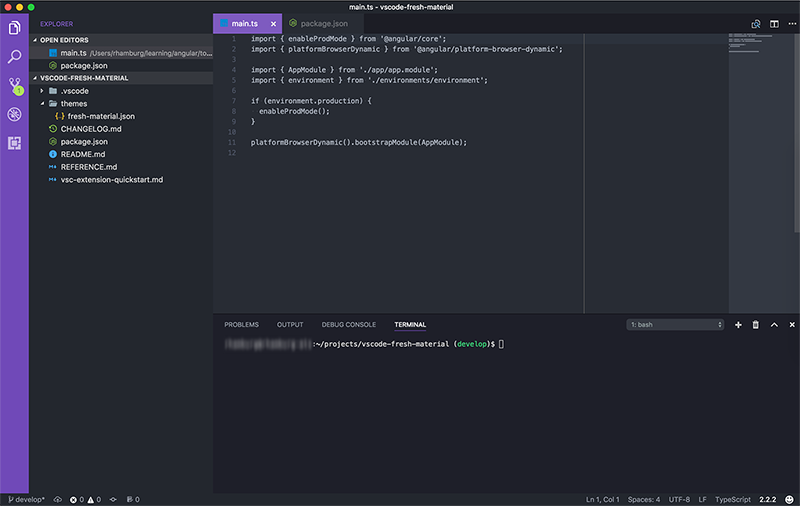
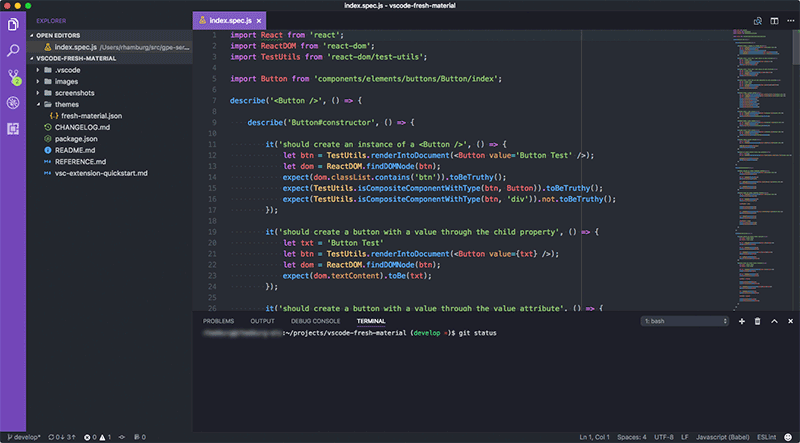
Bump major version

diff --git a/CHANGELOG.md b/CHANGELOG.md
@@ -6,3 +6,8 @@ All notable changes to the "fresh-material" extension will be documented in this
 - Initial UI theme with no language syntax
 - README.md
 - REFERENCE.md
+
+# [0.0.2]
+### Added
+- JS language syntax
+- Package icon file
